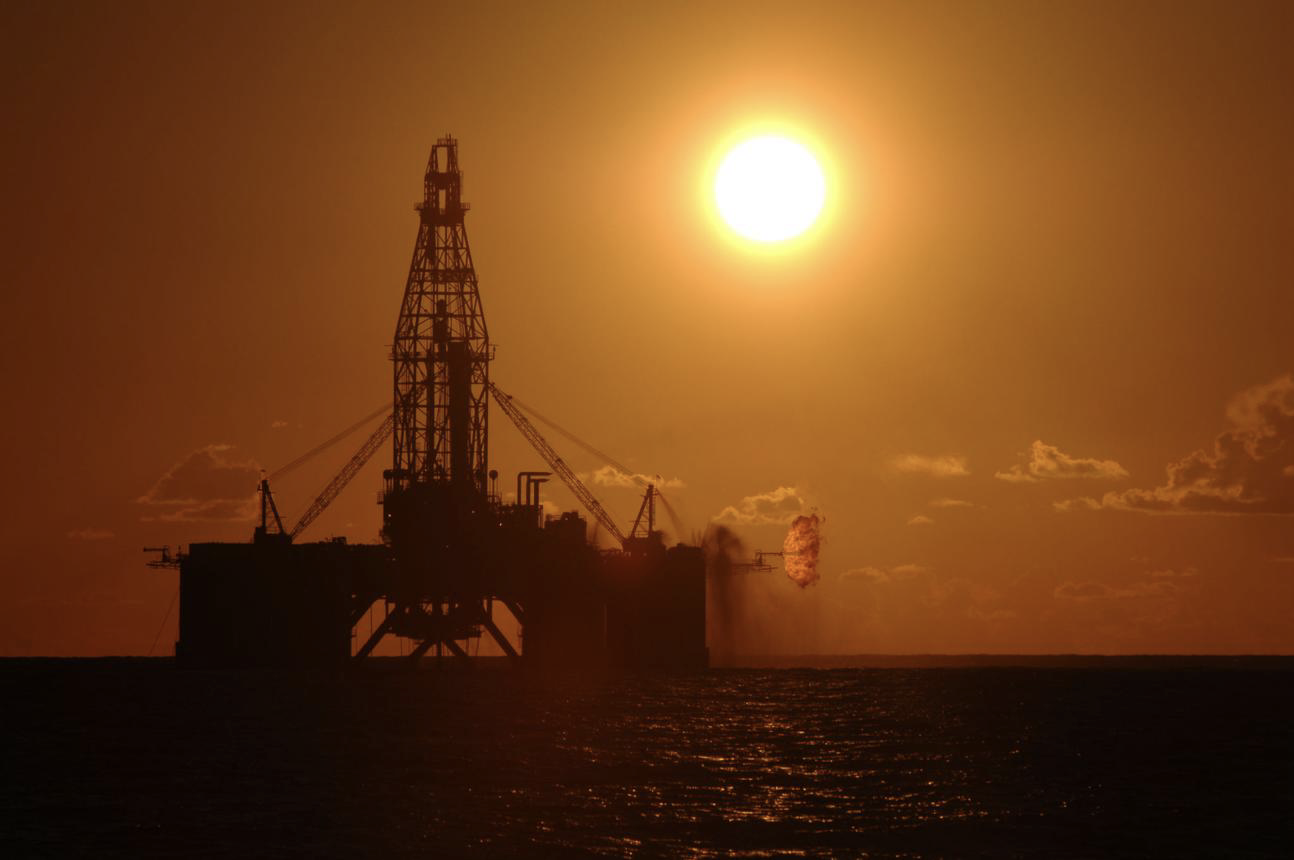
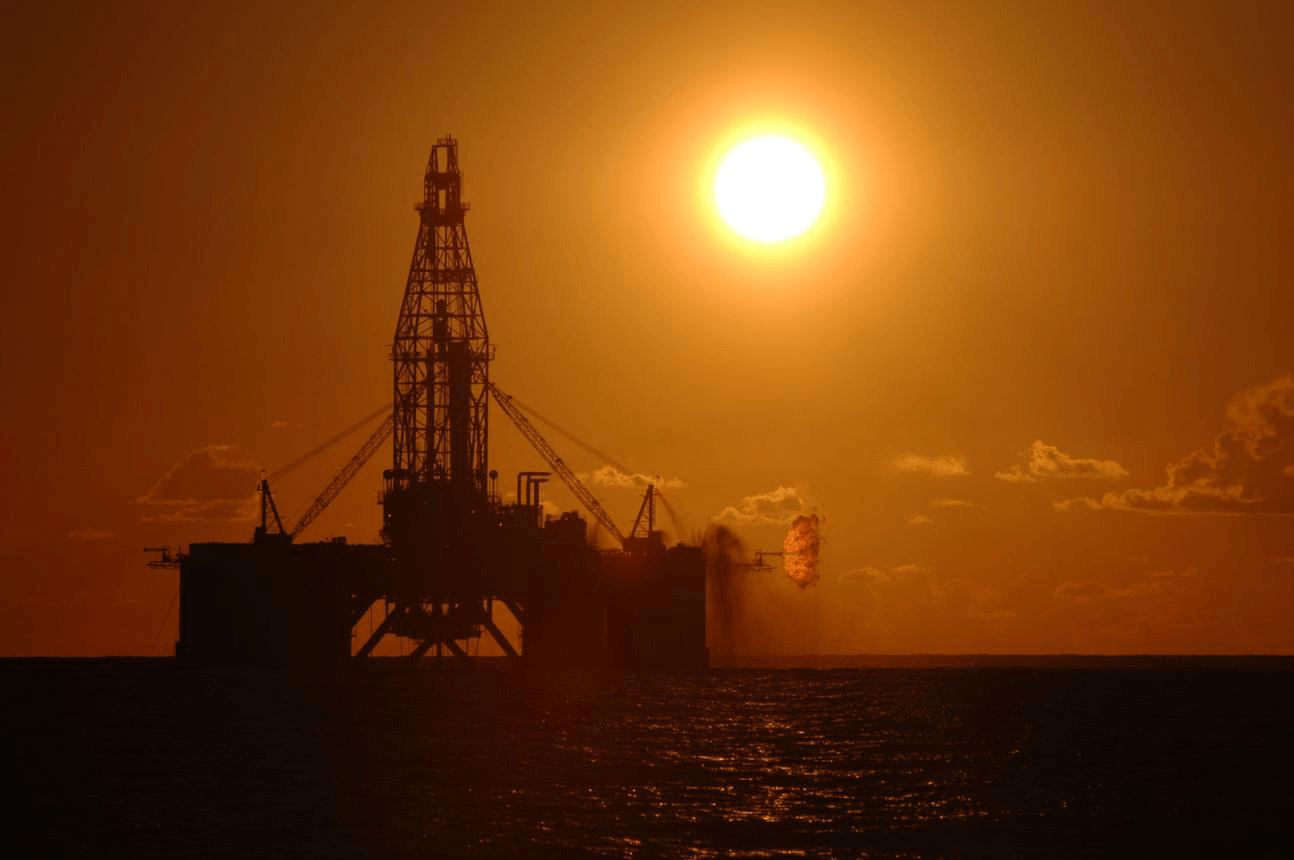
Refactor image preloading: update capability image format and remove unused preload logic

Changed region(s): [[0.34, 0.0, 0.9583, 0.7256]]

diff --git a/app/src/sections/Capabilities.tsx b/app/src/sections/Capabilities.tsx
@@ -99,7 +99,7 @@ const capabilities = [
     images: [
       `${import.meta.env.BASE_URL}images/capability-7.png`,
       `${import.meta.env.BASE_URL}images/capability-8.png`,
-      `${import.meta.env.BASE_URL}images/capability-9.jpg`,
+      `${import.meta.env.BASE_URL}images/capability-9.png`,
     ],
     color: 'from-blue-500 to-indigo-600',
   },
@@ -160,15 +160,6 @@ export default function Capabilities() {
     return () => observer.disconnect();
   }, []);
 
-  // Preload all capability images in background after mount
-  useEffect(() => {
-    capabilities.forEach((cap) => {
-      cap.images.forEach((src) => {
-        const img = new Image();
-        img.src = src;
-      });
-    });
-  }, []);
   const activeCapability = capabilities.find((c) => c.id === activeTab);
 
   return (
@@ -227,7 +218,7 @@ export default function Capabilities() {
                     src={img}
                     alt={`${activeCapability.title} ${index + 1}`}
                     className="w-full h-full object-cover"
-                    loading="eager"
+                    loading="lazy"
                   />
                   <div
                     className={`absolute inset-0 bg-gradient-to-br ${activeCapability.color} opacity-10`}

diff --git a/app/src/sections/Expertise.tsx b/app/src/sections/Expertise.tsx
@@ -31,14 +31,6 @@ export default function Expertise() {
   const [isVisible, setIsVisible] = useState(false);
   const [activeCard, setActiveCard] = useState<number | null>(null);
 
-  // Preload expertise images in background after mount
-  useEffect(() => {
-    expertiseAreas.forEach(({ image }) => {
-      const img = new Image();
-      img.src = image;
-    });
-  }, []);
-
   useEffect(() => {
     const observer = new IntersectionObserver(
       ([entry]) => {

diff --git a/app/index.html b/app/index.html
@@ -4,8 +4,6 @@
     <meta charset="UTF-8" />
     <meta name="viewport" content="width=device-width, initial-scale=1.0" />
     <title>EIREC - Energy Recruitment</title>
-    <!-- Preload hero image shown immediately on load -->
-    <link rel="preload" as="image" href="/EIREC/images/hero-dark.jpg" />
   </head>
   <body>
     <div id="root"></div>
